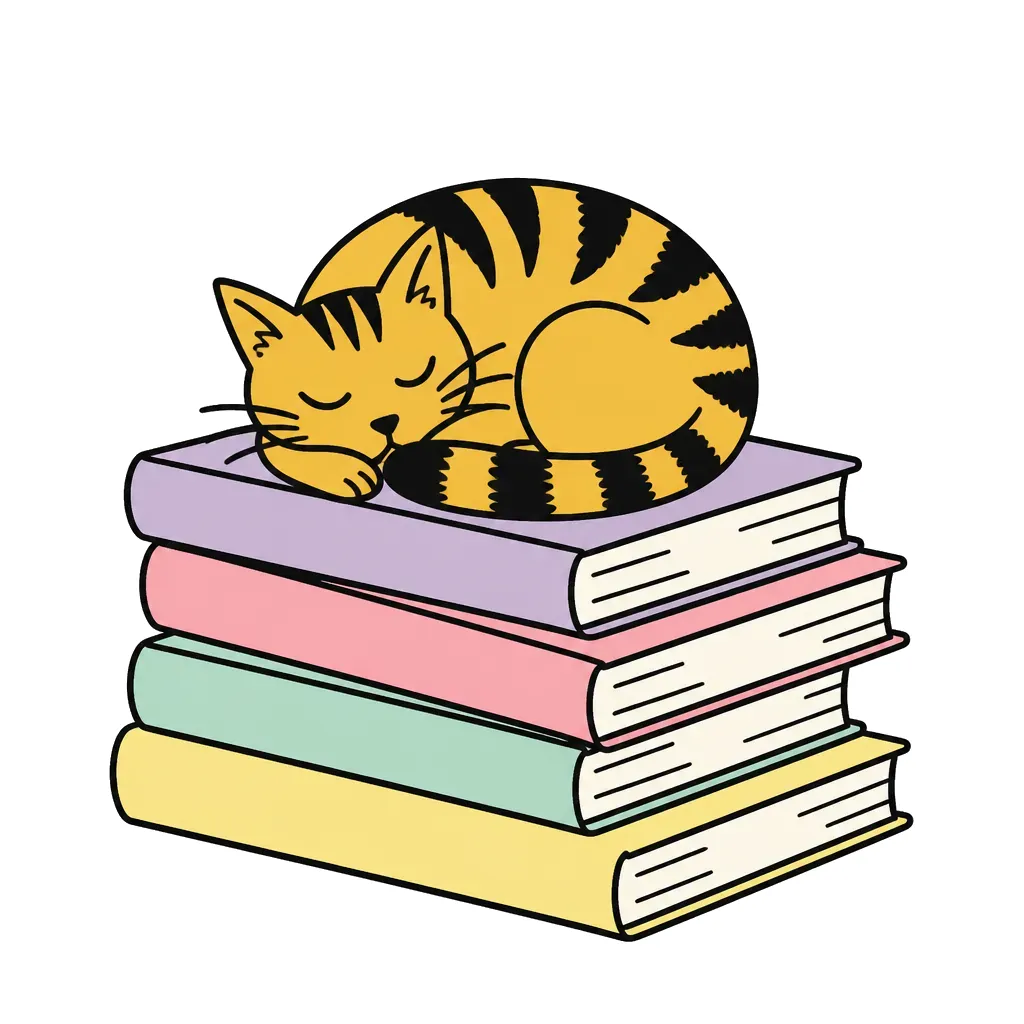
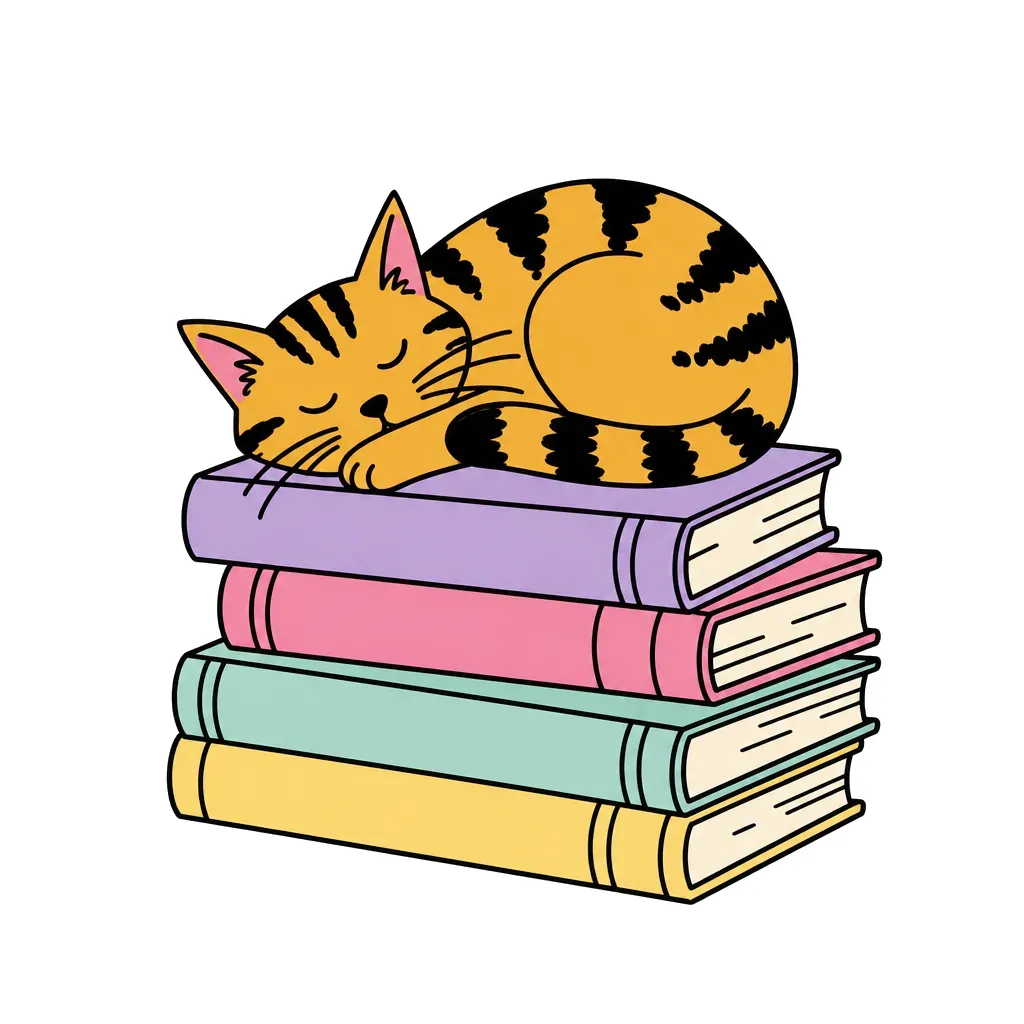
Test Station: collapse Replicate tiles + medium house quality (#650)
* Story Room: Summary strip — the story's key moments with arrows, at a glance

The few beats that carry a story (picked by Sophie) render at the top of
the story page as art cards joined by arrows, so what the story is mainly
about reads in one look. + Summary / edit sheet toggles beats in and out
with an optional short label per moment (defaults to the beat's first
narration words); tapping a moment jumps to its beat. Stored as
summary:[{beat,label}] via POST /api/story/summary, preserved across
board re-syncs.

Claude-Session: https://claude.ai/code/session_01TrZDCSokDmdvHvAykycDun

* Doc the gallery-review pattern: labeled images in the Assets tab, no contact sheets

Sophie's rule (July 2026): every image deliverable goes into the gallery /
Assets tab individually and labeled (label = the description she reviews by),
reviewed there one at a time — never a stitched contact sheet. Re-rolls get a
new id and keep the old version as history. Fixes the witch-school doc, which
previously told chats to build and send a contact sheet.

Claude-Session: https://claude.ai/code/session_01TrZDCSokDmdvHvAykycDun

* witch-school-cards: per-spec style override + white-background whitening

Recolored lessons (e.g. the pastel "What Do You Want to Wake Up To?")
can now set their own palette via spec `style`/`charDesc`/`end`, and
`whiten: true` flood-fills the border-connected background to pure white
after each render (interior colors walled off by outlines are preserved;
[…]

Changed region(s): [[0.0938, 0.1562, 0.9062, 0.9375]]

diff --git a/public/test.html b/public/test.html
@@ -213,6 +213,8 @@
       </div>
     </div>
     <div class="style-tiles" id="style-tiles"></div>
+    <button class="btn-secondary" id="replicate-toggle" onclick="toggleReplicate()" style="margin-top:6px; display:none;">▸ Replicate styles</button>
+    <div class="style-tiles" id="replicate-tiles" style="display:none; margin-top:12px;"></div>
 
     <div class="run-row">
       <button class="btn" id="run-selected" onclick="runSelected()" disabled>Run selected</button>
@@ -286,10 +288,28 @@
       renderTiles();
     }
 
+    // Replicate LoRA tiles are tucked behind a toggle (we don't use them now);
+    // the ChatGPT/House tiles show up top.
+    let replicateOpen = false;
+    function toggleReplicate() {
+      replicateOpen = !replicateOpen;
+      document.getElementById('replicate-tiles').style.display = replicateOpen ? '' : 'none';
+      updateReplicateToggle();
+    }
+    function updateReplicateToggle() {
+      const btn = document.getElementById('replicate-toggle');
+      const n = styles.filter(s => s.provider === 'replicate').length;
+      if (!btn) return;
+      btn.style.display = n ? '' : 'none';
+      btn.textContent = `${replicateOpen ? '▾' : '▸'} Replicate styles (${n})`;
+    }
+
     function renderTiles() {
       const samples = loadSamples();
       const grid = document.getElementById('style-tiles');
+      const repGrid = document.getElementById('replicate-tiles');
       grid.innerHTML = '';
+      repGrid.innerHTML = '';
       styles.forEach(s => {
         // Prefer a sample rendered this session, else the committed preview
         // shipped at /samples/<seg>.webp. If neither loads (e.g. DALL·E, which
@@ -316,8 +336,9 @@
           if (e.target.closest('.tile-check')) { toggleSelect(s.id); return; }
           runStyles([s]);
         });
-        grid.appendChild(tile);
+        (s.provider === 'replicate' ? repGrid : grid).appendChild(tile);
       });
+      updateReplicateToggle();
     }
 
     function toggleSelect(id) {

diff --git a/server.js b/server.js
@@ -3762,7 +3762,8 @@ async function whitenBackground(buf, tol = 46) {
 }
 app.post('/api/generate/housestyle', async (req, res) => {
   try {
-    const { prompt, styleId = 'house-pastel', quality = 'low' } = req.body || {};
+    // Default MEDIUM — matches how the illustrated lessons (specA) were rendered.
+    const { prompt, styleId = 'house-pastel', quality = 'medium' } = req.body || {};
     if (!prompt) return res.status(400).json({ error: 'prompt is required' });
     if (!OPENAI_API_KEY) return res.status(400).json({ error: 'OPENAI_API_KEY not set on the server' });
     const style = (MODELS.house || []).find(s => s.id === styleId);
